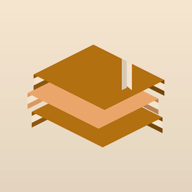
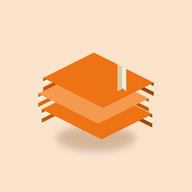
Administrativo del Estado: pagina de eliminacion de cuenta e icono web naranja

Changed region(s): [[0.125, 0.2188, 0.875, 0.7812]]

diff --git a/eliminar-cuenta/administrativo-estado.html b/eliminar-cuenta/administrativo-estado.html
@@ -35,7 +35,7 @@
     <li>Ve a <strong>Ajustes</strong> → <strong>Cuenta</strong>.</li>
     <li>Pulsa <strong>Eliminar cuenta</strong> y confirma.</li>
   </ol>
-  <p>Tu cuenta y los datos asociados en la nube se eliminan de forma inmediata.</p>
+  <p>Tu cuenta (Google o Apple) es la misma en todas las apps de Caelyn Tech. Al eliminarla se borran de forma inmediata tu cuenta y <strong>todos tus datos en la nube de todas ellas</strong>. El progreso guardado en cada dispositivo se conserva (se elimina al desinstalar la app).</p>
 
   <h2>Opción 2 · Por correo electrónico</h2>
   <p>Escribe a <a href="mailto:[email redacted]">[email redacted]</a> desde la dirección de correo de tu cuenta, indicando que deseas eliminar tu cuenta de <strong>Administrativo del Estado</strong>. Procesaremos la solicitud en un máximo de <strong>30 días</strong> (normalmente en mucho menos).</p>